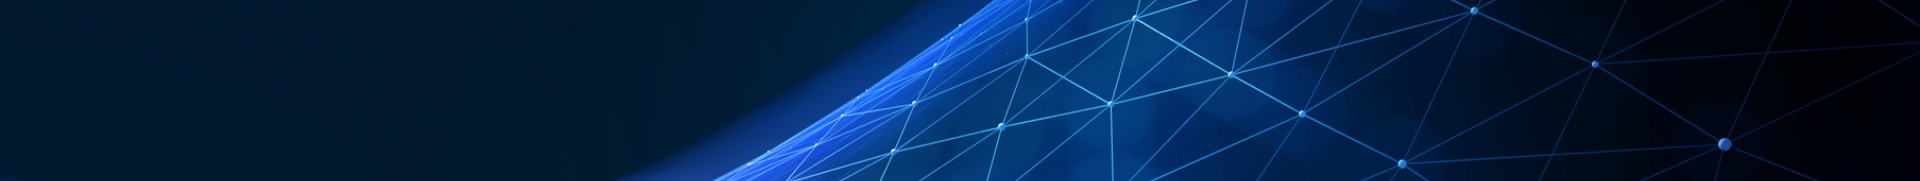
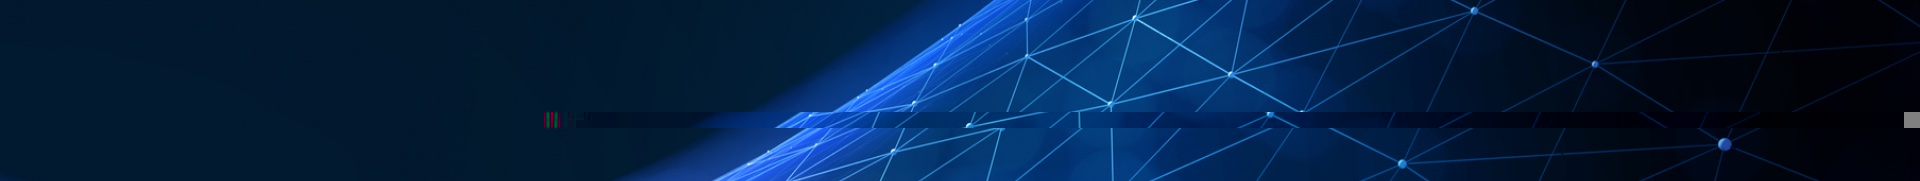
refact: anon srv/db

diff --git a/srv/service.js b/srv/service.js
@@ -1,13 +1,73 @@
 const cds = require('@sap/cds');
 
-module.exports = class Natura_NOSService extends cds.ApplicationService {
+module.exports = class Stock_NOSService extends cds.ApplicationService {
     async init() {
         const { StockMovement } = this.entities;
 
         this.before('CREATE', StockMovement, (req) => {
             const { type, requester_ID, quantity } = req.data;
-            if (!quantity || quantity <= 0) req.error(400, 'Quantity must be greater than zero.');
+            if (!quantity || parseFloat(quantity) <= 0) req.error(400, 'Quantity must be greater than zero.');
             if (type === 'EXIT' && !requester_ID) req.error(400, 'Requester is mandatory for EXIT movements.');
+        });
+
+        this.on('processInventoryEvent', async (req) => {
+            const { header, positions } = req.data;
+
+            // Retorna imediatamente — processamento ocorre em background
+            cds.spawn(async () => {
+                const db = await cds.connect.to('db');
+                const { InventoryEvent, StockMovement, Product, Location, Channel } = db.entities('Stock_NOS');
+
+                // 1. Grava o header do evento para rastreabilidade
+                const eventId = cds.utils.uuid();
+                await db.run(
+                    INSERT.into(InventoryEvent).entries({
+                        ID           : eventId,
+                        eventId      : header.eventId,
+                        sourceSystem : header.sourceSystem,
+                        syncType     : header.syncType,
+                        eventTs      : header.timestamp,
+                        totalRecords : header.totalRecords
+                    })
+                );
+
+                // 2. Processa cada posição de estoque
+                const movements = [];
+                for (const pos of positions) {
+                    const [product]  = await db.run(SELECT.from(Product).where({ productSAPCode: pos.sku }));
+                    const [location] = await db.run(SELECT.from(Location).where({ siteId: pos.siteId }));
+                    const [channel]  = await db.run(SELECT.from(Channel).where({ code: pos.channel }));
+
+                    if (!product || !location || !channel) continue;
+
+                    movements.push({
+                        ID               : cds.utils.uuid(),
+                        product_ID       : product.ID,
+                        quantity         : pos.availableQuantity,
+                        unitOfMeasure    : pos.unitOfMeasure,
+                        stockStatus      : pos.inventoryType === 'TRANSIT' ? 'IN_TRANSIT' : 'IN_STOCK',
+                        stockType        : pos.inventoryType,
+                        location_ID      : location.ID,
+                        channel_ID       : channel.ID,
+                        type             : 'ENTRY',
+                        transitId        : pos.transitId        || null,
+                        estimatedArrival : pos.estimatedArrival || null,
+                        lastMovementDate : pos.lastMovementDate,
+                        inventoryEvent_ID: eventId
+                    });
+                }
+
+                if (movements.length > 0)
+                    await db.run(INSERT.into(StockMovement).entries(movements));
+
+                // 3. Emite evento de conclusão — outros serviços podem consumir
+                await this.emit('InventoryEventProcessed', {
+                    eventId      : header.eventId,
+                    totalCreated : movements.length
+                });
+            });
+
+            return `Event ${header.eventId} accepted — processing ${positions.length} positions in background`;
         });
 
         return super.init();

diff --git a/app/stock_nos.productmonitor/webapp/test/flpSandbox.html b/app/stock_nos.productmonitor/webapp/test/flpSandbox.html
@@ -44,10 +44,10 @@
                 }
             },
             applications: {
-                "naturanosproductmonitor-tile": {
+                "stocknosproductmonitor-tile": {
                     title: "productMonitor",
                     description: "My SAP application",
-                    additionalInformation: "SAPUI5.Component=naturanos.productmonitor",
+                    additionalInformation: "SAPUI5.Component=stocknos.productmonitor",
                     applicationType: "URL",
                     url: "../"
                 }
@@ -65,7 +65,7 @@
         data-sap-ui-theme="sap_horizon"
         data-sap-ui-compatVersion="edge"
         data-sap-ui-language="en"
-        data-sap-ui-resourceroots='{"naturanos.productmonitor": "../"}'
+        data-sap-ui-resourceroots='{"stocknos.productmonitor": "../"}'
         data-sap-ui-frameOptions="allow"
         data-sap-ui-flexibilityServices='[{"connector": "LocalStorageConnector"}]'>
     </script>

diff --git a/app/index.html b/app/index.html
@@ -27,7 +27,7 @@
                     return Controller.extend("PreviewController", {
                         onInit: function () {
 
-                            const data = {"Services":[{"ServiceName":"Natura_NOSService","DetailsURL":"./service/Natura_NOSService/","Metadata":"./service/Natura_NOSService/$metadata","Entities":[{"Name":"Product","URL":"./service/Natura_NOSService/Product","FioriURL":"$fiori-preview/Natura_NOSService/Product#preview-app"}],"EntitiesCount":1}]}
+                            const data = {"Services":[{"ServiceName":"Stock_NOSService","DetailsURL":"./service/Stock_NOSService/","Metadata":"./service/Stock_NOSService/$metadata","Entities":[{"Name":"Product","URL":"./service/Stock_NOSService/Product","FioriURL":"$fiori-preview/Stock_NOSService/Product#preview-app"}],"EntitiesCount":1}]}
                             this.getView().setModel(new JSONModel(data));
                         }
                     });

diff --git a/app/stock_nos.productmonitor/webapp/index.html b/app/stock_nos.productmonitor/webapp/index.html
@@ -15,7 +15,7 @@
         src="https://sapui5.hana.ondemand.com/1.120.13/resources/sap-ui-core.js"
         data-sap-ui-theme="sap_horizon"
         data-sap-ui-resource-roots='{
-            "naturanos.productmonitor": "./"
+            "stocknos.productmonitor": "./"
         }'
         data-sap-ui-on-init="module:sap/ui/core/ComponentSupport"
         data-sap-ui-compat-version="edge"
@@ -26,9 +26,9 @@
 <body class="sapUiBody sapUiSizeCompact" id="content">
     <div
         data-sap-ui-component
-        data-name="naturanos.productmonitor"
+        data-name="stocknos.productmonitor"
         data-id="container"
-        data-settings='{"id" : "naturanos.productmonitor"}'
+        data-settings='{"id" : "stocknos.productmonitor"}'
         data-handle-validation="true"
     ></div>
 </body>

diff --git a/app/stock_nos.productmonitor/webapp/test/integration/pages/JourneyRunner.js b/app/stock_nos.productmonitor/webapp/test/integration/pages/JourneyRunner.js
@@ -1,12 +1,12 @@
 sap.ui.define([
     "sap/fe/test/JourneyRunner",
-	"naturanos/productmonitor/test/integration/pages/ProductList",
[1 lines of base64/hex data omitted]
+	"stocknos/productmonitor/test/integration/pages/ProductList",
[1 lines of base64/hex data omitted]
 ], function (JourneyRunner, ProductList, ProductObjectPage) {
     'use strict';
 
     var runner = new JourneyRunner({
-        launchUrl: sap.ui.require.toUrl('naturanos/productmonitor') + '/test/flpSandbox.html#naturanosproductmonitor-tile',
+        launchUrl: sap.ui.require.toUrl('stocknos/productmonitor') + '/test/flpSandbox.html#stocknosproductmonitor-tile',
         pages: {
 			onTheProductList: ProductList,
 			onTheProductObjectPage: ProductObjectPage

diff --git a/app/launchpadPage.html b/app/launchpadPage.html
@@ -19,13 +19,13 @@
     }
   },
   "applications": {
-    "naturanosproductmonitor-display": {
+    "stocknosproductmonitor-display": {
       "title": "productMonitor",
       "description": "My SAP application",
       "applicationType": "URL",
       "navigationMode": "newWindowThenEmbedded",
-      "url": "./natura_nos.productmonitor/webapp",
-      "additionalInformation": "SAPUI5.Component=naturanos.productmonitor"
+      "url": "./stock_nos.productmonitor/webapp",
+      "additionalInformation": "SAPUI5.Component=stocknos.productmonitor"
     }
   }
 };

diff --git a/app/stock_nos.productmonitor/webapp/test/integration/opaTests.qunit.html b/app/stock_nos.productmonitor/webapp/test/integration/opaTests.qunit.html
@@ -8,7 +8,7 @@
             src="../../resources/sap-ui-core.js"
             data-sap-ui-theme='sap_fiori_3'
             data-sap-ui-resourceroots='{
-                "naturanos.productmonitor": "../../"
+                "stocknos.productmonitor": "../../"
             }'
             data-sap-ui-animation="false"
             data-sap-ui-compatVersion="edge"

diff --git a/app/stock_nos.productmonitor/webapp/test/integration/opaTests.qunit.js b/app/stock_nos.productmonitor/webapp/test/integration/opaTests.qunit.js
@@ -22,7 +22,7 @@ sap.ui.require(
     "sap/ui/thirdparty/qunit-2",
     "sap/ui/qunit/qunit-junit",
     "sap/ui/qunit/qunit-coverage",
-    'naturanos/productmonitor/test/integration/FirstJourney'
+    'stocknos/productmonitor/test/integration/FirstJourney'
   ], function (QUnit) {
     "use strict";
     QUnit.start();

diff --git a/app/stock_nos.productmonitor/webapp/test/integration/pages/ProductObjectPage.js b/app/stock_nos.productmonitor/webapp/test/integration/pages/ProductObjectPage.js
@@ -8,7 +8,7 @@ sap.ui.define(['sap/fe/test/ObjectPage'], function(ObjectPage) {
 
     return new ObjectPage(
         {
-            appId: 'naturanos.productmonitor',
+            appId: 'stocknos.productmonitor',
             componentId: 'ProductObjectPage',
             contextPath: '/Product'
         },

diff --git a/app/stock_nos.productmonitor/webapp/test/integration/pages/ProductList.js b/app/stock_nos.productmonitor/webapp/test/integration/pages/ProductList.js
@@ -8,7 +8,7 @@ sap.ui.define(['sap/fe/test/ListReport'], function(ListReport) {
 
     return new ListReport(
         {
-            appId: 'naturanos.productmonitor',
+            appId: 'stocknos.productmonitor',
             componentId: 'ProductList',
             contextPath: '/Product'
         },

diff --git a/app/stock_nos.productmonitor/webapp/Component.js b/app/stock_nos.productmonitor/webapp/Component.js
@@ -3,7 +3,7 @@ sap.ui.define(
     function (Component) {
         "use strict";
 
-        return Component.extend("naturanos.productmonitor.Component", {
+        return Component.extend("stocknos.productmonitor.Component", {
             metadata: {
                 manifest: "json"
             }

diff --git a/app/stock_nos.productmonitor/README.md b/app/stock_nos.productmonitor/README.md
@@ -7,8 +7,8 @@
 |**Generation Platform**<br>SAP Business Application Studio|
 |**Template Used**<br>List Report Page V4|
 |**Service Type**<br>Local CAP|
-|**Service URL**<br>http://localhost:4004/service/Natura_NOSService/|
-|**Module Name**<br>natura_nos.productmonitor|
+|**Service URL**<br>http://localhost:4004/service/Stock_NOSService/|
+|**Module Name**<br>stock_nos.productmonitor|
 |**Application Title**<br>productMonitor|
 |**Namespace**<br>|
 |**UI5 Theme**<br>sap_horizon|
@@ -17,7 +17,7 @@
 |**Add Eslint configuration**<br>False|
 |**Main Entity**<br>Product|
 
-## natura_nos.productmonitor
+## stock_nos.productmonitor
 
 My SAP application
 
@@ -25,7 +25,7 @@ My SAP application
 
 -   This app has been generated using the SAP Fiori tools - App Generator, as part of the SAP Fiori tools suite.  To launch the generated app, start your CAP project:  and navigate to the following location in your browser:
 
-http://localhost:4004/natura_nos.productmonitor/webapp/index.html
+http://localhost:4004/stock_nos.productmonitor/webapp/index.html
 
 #### Pre-requisites:
 
